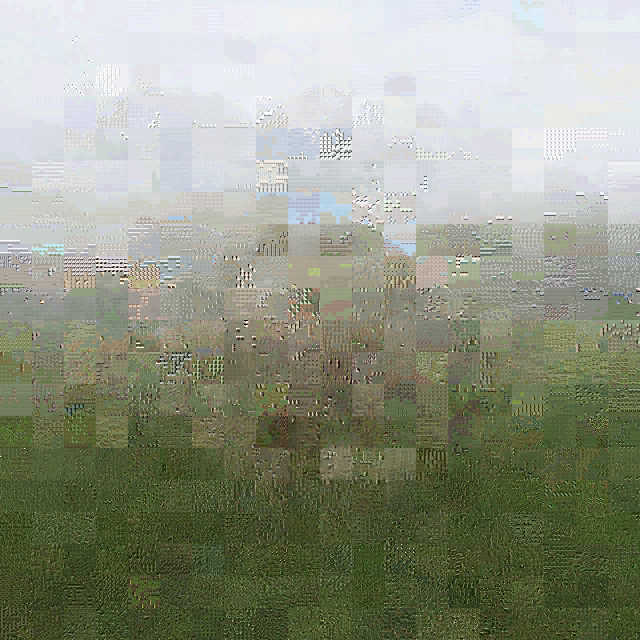
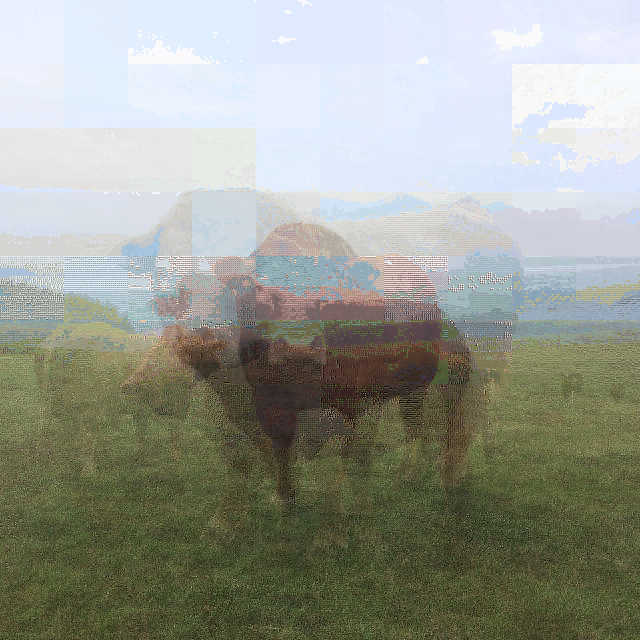
0083 - /Users/whittemore/.nvm/versions/node/v4.1.1/bin/node /index.js

diff --git a/sketches/0083/index.js b/sketches/0083/index.js
@@ -11,9 +11,9 @@ var ngraph = require('ngraph.graph');
 var Modularity = require('ngraph.modularity');
 var pixelBuilder = require('./pixel-blocker');
 
-var BLOCK_SIZE = 64;
-var TOP_LINE = .25;
-var UNIT_BLOCK_SIZE = 2;
+var BLOCK_SIZE = 8;
+var TOP_LINE = 0;
+var UNIT_BLOCK_SIZE = 4;
 var MIN_IMGS_TO_BE_NODE = 1;
 
 var getBasePixels = function*(imgPath){
